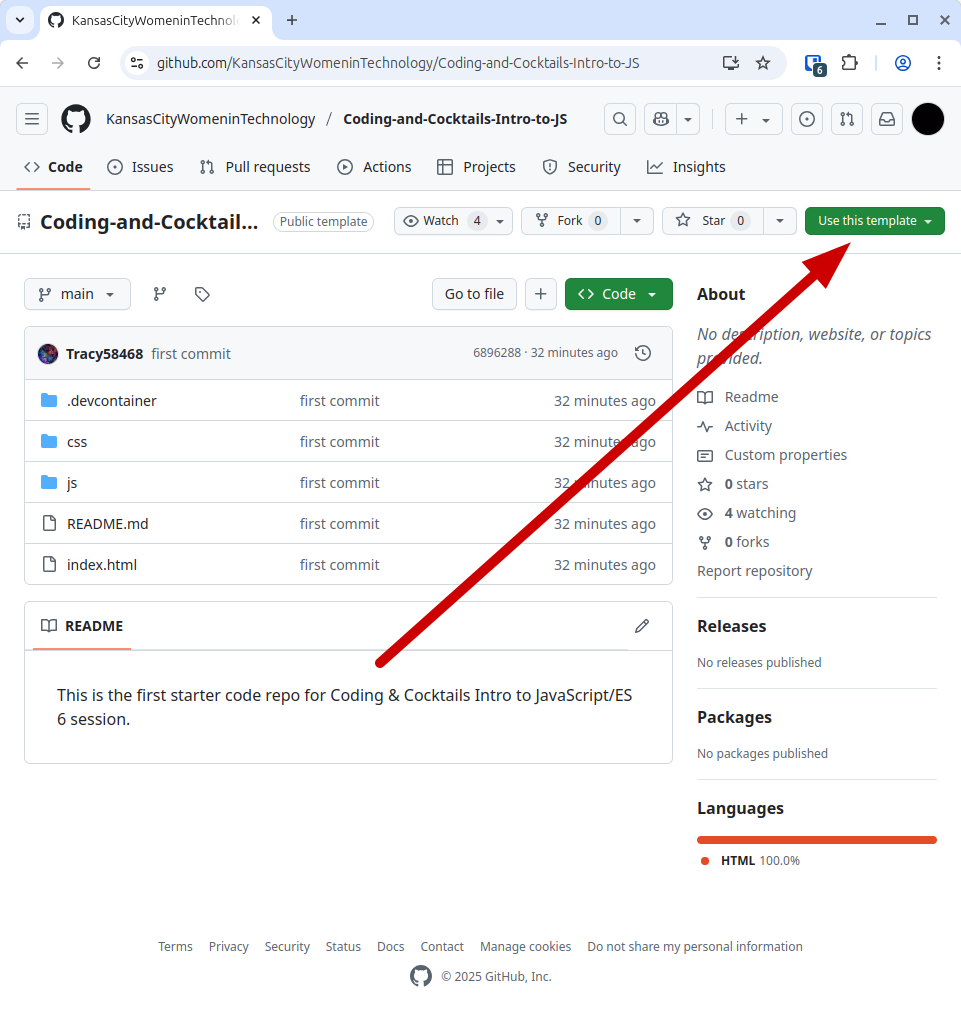
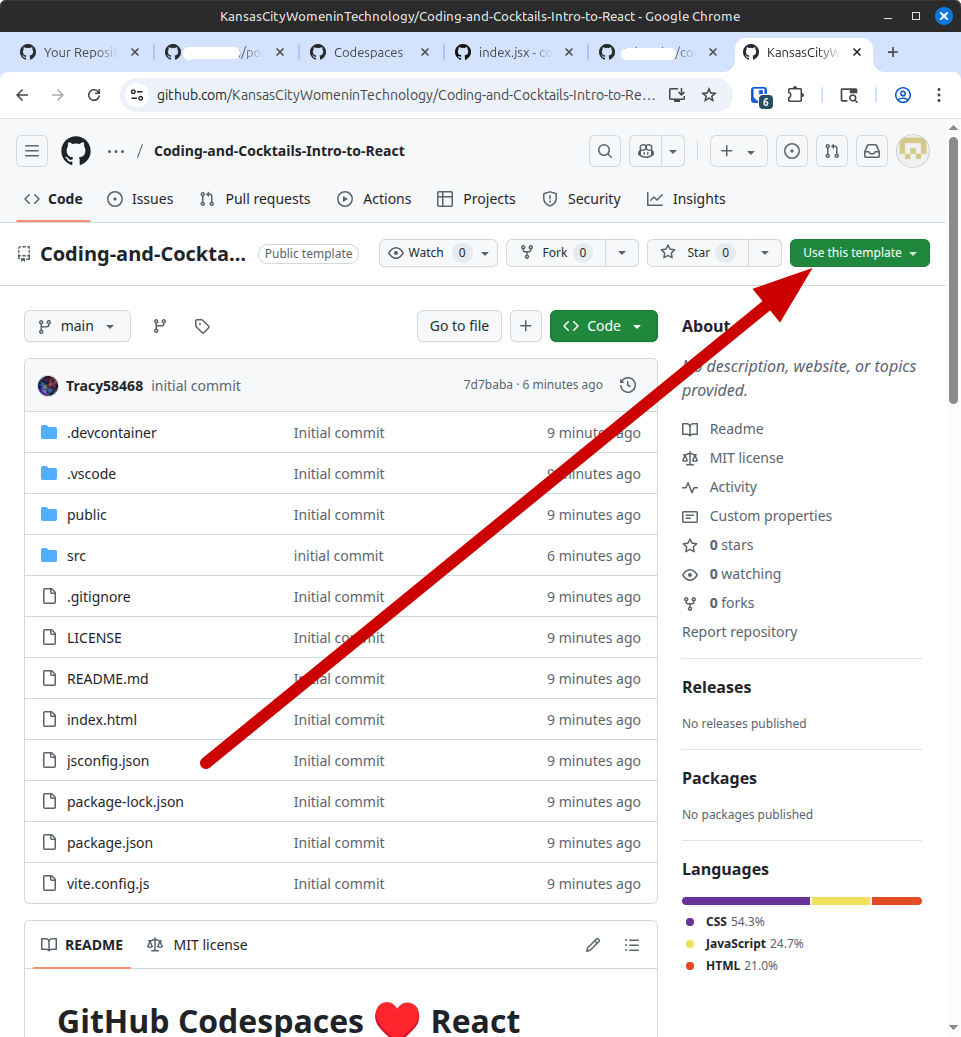
Move keyboard shortcuts to new top-level folder. Update setup instructions with new images.

diff --git a/docs/react/01-setup/README.md b/docs/react/01-setup/README.md
@@ -22,7 +22,6 @@ We will use GitHub Codespaces for our workshop. GitHub Codespaces is a cloud dev
 
 2. Once you're signed in, click on the following link to [**the starter code repo**](https://github.com/KansasCityWomeninTechnology/Coding-and-Cocktails-Intro-to-React) and click the "Use this template" button in the upper right-hand corner of the screen.
 
-**REPLACE THIS IMAGE**
     ![](./images/intro_repo_page.png ":class=image-border")
 
 3. Next, select the "Open in a codespace" option.
@@ -31,13 +30,12 @@ We will use GitHub Codespaces for our workshop. GitHub Codespaces is a cloud dev
 
 4. Now you are ready to write some code! The Codespace page is split into 3 different sections. On the far left is the project's file structure. The top right section is where you will write your code. The bottom right section is where you will find the terminal.
 
-    You may see a notification in the lower right-hand corner of the screen. You can dismiss this by clicking the "x".
-
-**REPLACE THIS IMAGE**
-    ![](./images/LiveServer_notification.png ":class=image-border")
-
 > [!TIP]
 > View the worksheet and your IDE in split screen.
+>
+> By default, Codespaces opens a preview in a pane on your IDE. If you want to see the preview in a full-sized tab, you can click on the icon in the upper right-hand corner of the preview pane, as shown below. Your preview will remain in a pane alongside your code until you close that pane.
+>
+> ![](.images/open_in_browser.png ":class=image-border")
 >
 > If you want to open the browser view in a new window, right click on the tab (control click on a Mac) and select "Move tab to new window." Then you can put the browser view of your web page on half of your screen and the IDE on the other half.
 >
@@ -55,4 +53,4 @@ We will use GitHub Codespaces for our workshop. GitHub Codespaces is a cloud dev
 > [!TIP]
 > Did you know you can perform common tasks such as copy and paste?
 >
-> When working without a mouse, keyboard shortcuts will be faster than a trackpad. Open the [handy dandy keyboard shortcut reference in a new tab](/react/keyboard-shortcuts/ ":target=_blank") so you can refer to it easily!
+> When working without a mouse, keyboard shortcuts will be faster than a trackpad. Open the [handy dandy keyboard shortcut reference in a new tab](/keyboard-shortcuts/ ":target=_blank") so you can refer to it easily!
